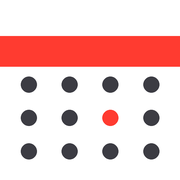
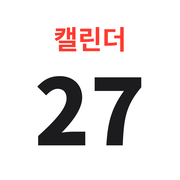
앱 아이콘을 애플 느낌(큰 날짜) 디자인으로 변경
Claude-Session: https://claude.ai/code/session_015AGhZXtsvvHb7vnR1nKdkf

diff --git a/sw.js b/sw.js
@@ -1,5 +1,5 @@
 // 오프라인용: 앱 파일을 휴대폰에 보관해 두고, 인터넷이 되면 새 버전으로 바꾼다.
-const CACHE = 'mycal-v7';
+const CACHE = 'mycal-v8';
 const FILES = ['./', './index.html', './manifest.webmanifest', './icon-192.png', './icon-512.png', './apple-touch-icon.png'];
 self.addEventListener('install', e => { e.waitUntil(caches.open(CACHE).then(c => c.addAll(FILES))); self.skipWaiting(); });
 self.addEventListener('activate', e => {
